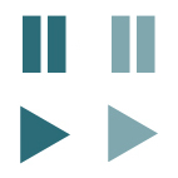
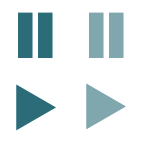
Modifs CSS

diff --git a/css/player.css b/css/player.css
@@ -28,8 +28,8 @@ div.jp-video div.jp-type-playlist ul.jp-controls {
 div.jp-interface ul.jp-controls li {
 	display:inline;
 	position: absolute;
-	top: 35px;
-	left: 175px;
+	top: 45px;
+	left: 180px;
 }
 
 div.jp-interface ul.jp-controls a {
@@ -40,23 +40,23 @@ div.jp-interface ul.jp-controls a {
 
 a.jp-play,
 a.jp-pause {
-	width:89px;
-	height:89px;
+	width:71px;
+	height:71px;
 }
 
 a.jp-pause {
 	background: url("../img/icons.png") 0 0 no-repeat;
 }
 a.jp-pause:hover {
-	background: url("../img/icons.png") -89px 0 no-repeat;
-	margin-left: 10px;
+	background: url("../img/icons.png") -71px 0 no-repeat;
+	
 }
 a.jp-play {
-	background: url("../img/icons.png") 0 -89px no-repeat;
+	background: url("../img/icons.png") 0 -71px no-repeat;
 	display: none;
 }
 a.jp-play:hover {
-	background: url("../img/icons.png") -89px -89px no-repeat;
+	background: url("../img/icons.png") -71px -71px no-repeat;
 }
 
 
